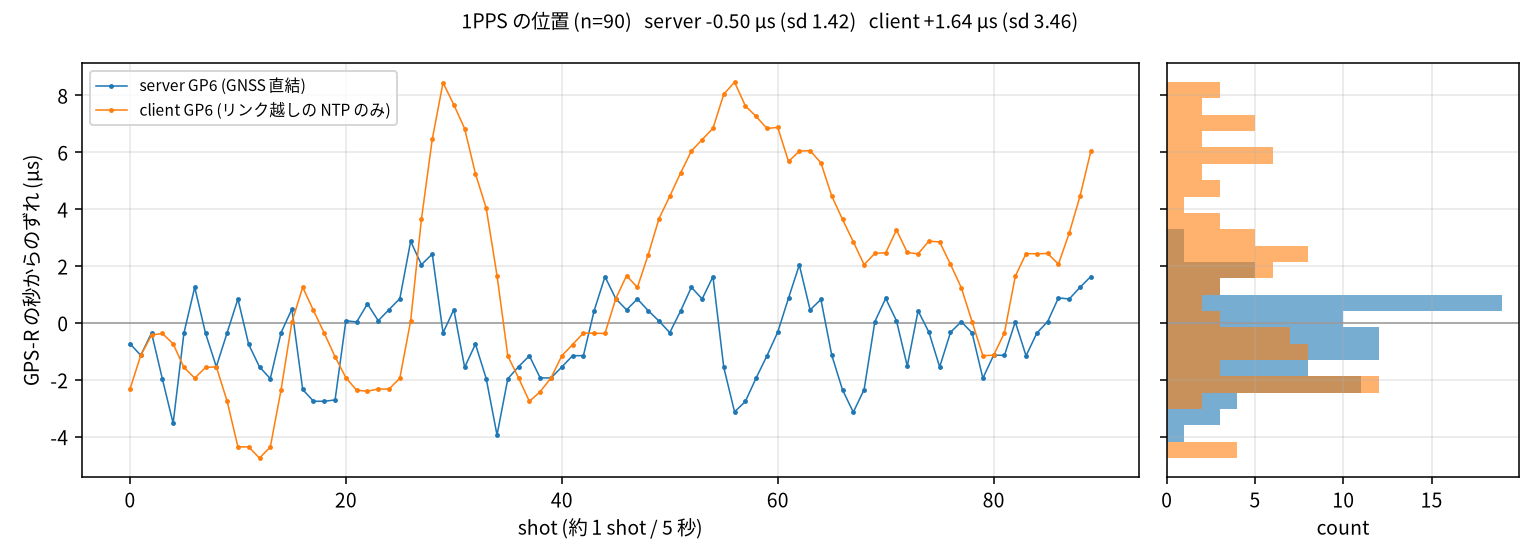
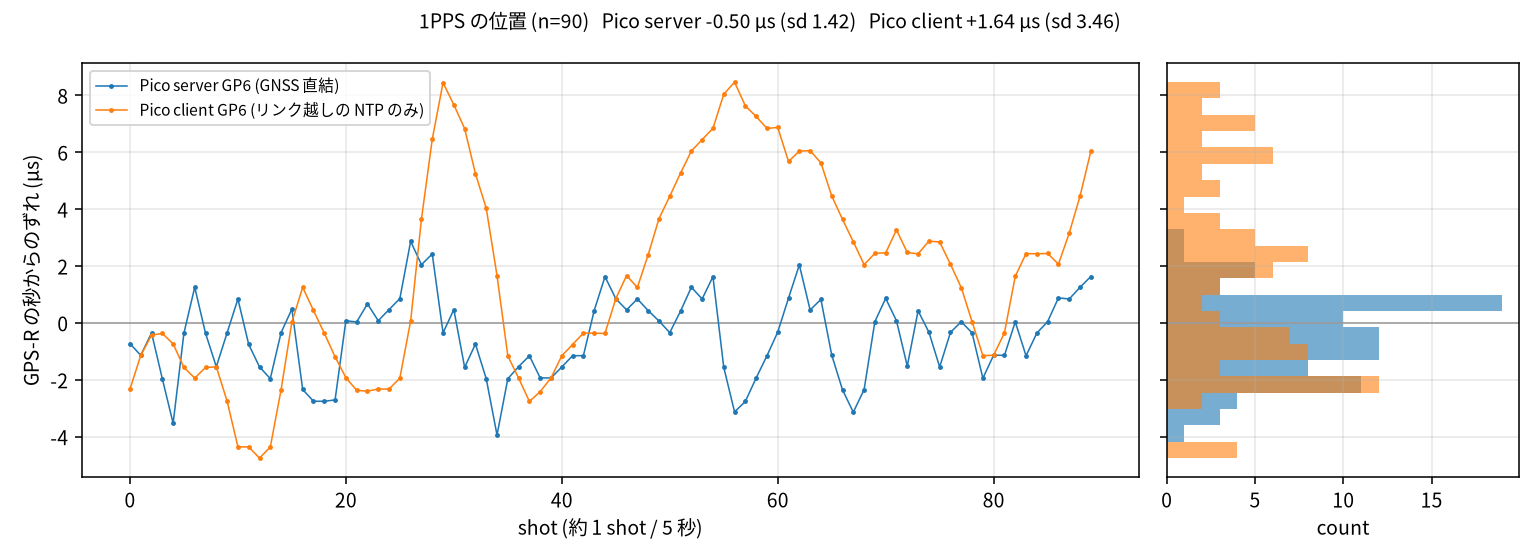
docs(pico-link-ntp): say what the synchronisation accuracy is, and why
The report gave the position of each board against the receiver's second and
left the accuracy at "the absolute position does not reproduce, and the cause
is not known". Both halves of that are now answerable.

What NTP achieves is the difference between the two boards, not either one's
distance from the receiver. Pico client GP6 minus Pico server GP6 comes out
of a single acquisition, and the constant the server subtracts from its own
clock moves that clock, so it lands equally on the pin and on the packets and
cancels in the difference. Over 12 runs and 226 acquisitions, with the
server's own position spanning -0.5 to +204.1 us, the difference stays within
+-10 us: per-run means -8.1 to +9.7 us, per-run sd 0.6 to 3.5 us.
fig-ntp-accuracy.png plots it both ways round, the second panel against the
server's absolute position to show the independence directly.

The server's absolute position moves because the clock's UTC anchor is not
the edge the counter captured. run_capture reads the software clock when it
drains the FIFO, so however late the executor wakes that task lands on the
served second. Delaying the drain by a known 100 us moved the output from
+80 us to +204.1 us (sd 1.4, n=16) and carried the client to +197.4 us with
it: the prediction first, then the measurement. It reproduces within a build
(five restarts: +79.7, +80.0, +80.3, +80.7, +82.3 us) and stops matching when
the firmware changes what runs at the second boundary.
[…]

diff --git a/docs/report/pico-link-ntp/logs/plot_link.py b/docs/report/pico-link-ntp/logs/plot_link.py
@@ -1,6 +1,6 @@
 #!/usr/bin/env python3
 # /// script
-# dependencies = ["matplotlib", "numpy"]
+# dependencies = ["matplotlib", "numpy", "pillow"]
 # ///
 """Figures for the Pico 間リンクの NTP 時刻同期。
 
@@ -17,7 +17,9 @@ import sys
 import matplotlib
 
 matplotlib.use("Agg")
+import matplotlib.animation as animation  # noqa: E402
 import matplotlib.pyplot as plt  # noqa: E402
+import matplotlib.transforms as transforms  # noqa: E402
 import numpy as np  # noqa: E402
 
 # 図中に日本語を出すので、CJK を持つフォントを明示する。無いと豆腐になる。
@@ -50,8 +52,8 @@ def fig_broadcast_series():
         1, 2, figsize=(11, 4), gridspec_kw={"width_ratios": [3, 1]}
     )
     ax.axhline(0, color="0.6", lw=0.8)
-    ax.plot(shots, server, ".-", ms=3, lw=0.8, label="server GP6 (GNSS 直結)")
-    ax.plot(shots, client, ".-", ms=3, lw=0.8, label="client GP6 (リンク越しの NTP のみ)")
+    ax.plot(shots, server, ".-", ms=3, lw=0.8, label="Pico server GP6 (GNSS 直結)")
+    ax.plot(shots, client, ".-", ms=3, lw=0.8, label="Pico client GP6 (リンク越しの NTP のみ)")
     ax.set_xlabel("shot (約 1 shot / 5 秒)")
     ax.set_ylabel("GPS-R の秒からのずれ (µs)")
     ax.legend(loc="upper left", fontsize=8)
@@ -69,12 +71,292 @@ def fig_broadcast_series():
 
     fig.suptitle(
         f"1PPS の位置 (n={len(server)})   "
-        f"server {server.mean():+.2f} µs (sd {server.std():.2f})   "
-        f"client {client.mean():+.2f} µs (sd {client.std():.2f})",
+        f"Pico server {server.mean():+.2f} µs (sd {server.std():.2f})   "
+        f"Pico client {client.mean():+.2f} µs (sd {client.std():.2f})",
         fontsize=10,
     )
     fig.tight_layout()
     path = os.path.join(OUT, "fig-broadcast-series.png")
+    fig.savefig(path, dpi=140)
+    print(f"saved {path}")
+
+
+# 1 回の取り込みで両方の 1PPS を読んだ run。server の絶対位置がばらついているのは狙って
+# そうしたのではなく、UTC の錨を PIO が捉えたエッジではなく FIFO を汲み出した時刻で取っていて、
+# 起動ごとに executor の起床順が変わるためである。ここではそれを逆に使う。
+RUNS = [
+    ("pair-series.csv", "broadcast"),
+    ("pair-unicast2.csv", "unicast"),
+    ("pair-pr10-retest.csv", "unicast"),
+    ("pair-hwts.csv", "unicast"),
+    ("pair-reviewfix.csv", "broadcast"),
+    ("pair-offload.csv", "unicast"),
+    ("pair-bisect.csv", "unicast"),
+    ("pair-boot1.csv", "unicast"),
+    ("pair-boot3.csv", "unicast"),
+    ("pair-boot4.csv", "unicast"),
+    ("pair-boot5.csv", "unicast"),
+    ("pair-anchor-delay.csv", "unicast (錨を 100 µs 遅らせた)"),
+]
+
+# 垂直の設定は `scope_pair.py` が固定している (1 V/div、offset −1.5 V)。バイト 0-255 が
+# 10 division にあたるので、真ん中のバイトが +1.5 V。
+VOLTS_PER_BYTE = 10.0 / 255.0
+CENTRE_VOLTS = 1.5
+
+
+def read_trace(name):
+    """`scope_pair.py trace` の CSV を frames[i][ch] = ボルトの配列 として読む。"""
+    frames, xinc = {}, None
+    with open(os.path.join(RAW, name)) as f:
+        for line in f:
+            if line.startswith("#"):
+                if "xinc_ns=" in line:
+                    xinc = float(line.split("xinc_ns=")[1].split()[0])
+                continue
+            head, _, rest = line.partition(",")
+            ch, _, samples = rest.partition(",")
+            try:
+                b = np.array([int(v) for v in samples.split(",")], dtype=float)
+            except ValueError:
+                continue  # 書き込み途中の最終行
+            if len(b) < 100:
+                continue
+            frames.setdefault(int(head), {})[int(ch)] = (
+                b - 127.5
+            ) * VOLTS_PER_BYTE + CENTRE_VOLTS
+    return {k: v for k, v in frames.items() if len(v) == 3}, xinc
+
+
+def _cross(w, falling):
+    """しきい値を跨ぐ最初の点を、サンプルの小数位置で返す。"""
+    lo, hi = w.min(), w.max()
+    if hi - lo < 1.0:
+        return None
+    th = (lo + hi) / 2
+    for i in range(1, len(w)):
+        if falling and w[i - 1] >= th > w[i]:
+            return (i - 1) + (w[i - 1] - th) / (w[i - 1] - w[i])
+        if not falling and w[i - 1] < th <= w[i]:
+            return (i - 1) + (th - w[i - 1]) / (w[i] - w[i - 1])
+    return None
+
+
+def _edges(frame, xinc):
+    """トリガ (CH1 の立ち下がり) を 0 とした、CH3 と CH4 の立ち上がりの位置 (µs)。"""
+    ref = _cross(frame[1], True)
+    if ref is None:
+        return None, None, None
+    out = []
+    for ch in (3, 4):
+        e = _cross(frame[ch], False)
+        out.append(None if e is None else (e - ref) * xinc / 1000.0)
+    return ref, out[0], out[1]
+
+
+# 並びも色もオシロの画面に合わせる。CH1 が上で、黄は白地で読めないので暗い金色にしてある。
+LANES = [
+    (1, 10.0, "#b8860b", "CH1  GNSS 受信機の 1PPS", "active low なので秒は立ち下がり"),
+    (3, 5.0, "C4", "CH3  Pico server GP6", "GPS で規律した秒"),
+    (4, 0.0, "C0", "CH4  Pico client GP6", "リンク越しの NTP だけで作った秒"),
+]
+
+
+def _draw_frame(ax, frame, xinc, ref, server_us, client_us):
+    n = len(frame[1])
+    t = (np.arange(n) - ref) * xinc / 1000.0
+    # ラベルは軸の左端に貼る。データ座標だと拡大したときに画面の外へ出る。
+    label_at = transforms.blended_transform_factory(ax.transAxes, ax.transData)
+    for ch, base, colour, name, sub in LANES:
+        ax.plot(t, frame[ch] + base, lw=1.2, color=colour)
+        ax.text(0.012, base + 4.3, name, fontsize=9, color=colour, va="top",
+                transform=label_at)
+        ax.text(0.012, base + 2.9, sub, fontsize=7.5, color="0.35", va="top",
+                transform=label_at)
+    ax.axvline(0, color="0.35", lw=1.0, ls="--")
+    ax.text(0, 14.6, "秒境界", fontsize=8.5, ha="center", color="0.25")
+
+    for value, base, colour in ((server_us, 5.0, "C4"), (client_us, 0.0, "C0")):
+        if value is None:
+            continue
+        ax.annotate(
+            "",
+            xy=(value, base + 1.6),
+            xytext=(0, base + 1.6),
+            arrowprops=dict(arrowstyle="<->", color=colour, lw=1.0),
+        )
+        ax.text(
+            value / 2,
+            base + 1.8,
+            f"{value:+.2f} µs",
+            fontsize=8.5,
+            color=colour,
+            ha="center",
+        )
+    ax.set_ylim(-1.2, 15.6)
+    ax.set_yticks([])
+    ax.set_xlabel("秒境界からの時間 (µs)")
+
+
+def fig_scope_annotated(trace="trace-5us.csv"):
+    """1 回の取り込みを、どの線が何なのかを書き入れて描き直したもの。"""
+    frames, xinc = read_trace(trace)
+    for i in sorted(frames):
+        ref, s, c = _edges(frames[i], xinc)
+        if ref is not None and s is not None and c is not None:
+            break
+    else:
+        print(f"{trace}: 3 本とも読める取り込みが無い", file=sys.stderr)
+        return
+    ss = np.array([v for v in (_edges(frames[k], xinc)[1] for k in frames) if v is not None])
+    cs = np.array([v for v in (_edges(frames[k], xinc)[2] for k in frames) if v is not None])
+    fig, ax = plt.subplots(figsize=(9.5, 5.4))
+    _draw_frame(ax, frames[i], xinc, ref, s, c)
+    lim = max(9.0, abs(s) * 1.6, abs(c) * 1.6)
+    ax.set_xlim(-lim, lim * 0.7)
+    # 1 枚だけ見て「これがオフセットだ」と読まれないよう、run 全体の分布も表題に入れる。
+    ax.set_title(
+        "1 回の取り込み。3 本は同じトリガで、CH1 の立ち下がりが秒境界\n"
+        f"この 1 枚は Pico server {s:+.2f} µs / Pico client {c:+.2f} µs、"
+        f"同じ run {len(ss)} 回では {ss.mean():+.2f} ± {ss.std():.2f} µs / "
+        f"{cs.mean():+.2f} ± {cs.std():.2f} µs",
+        fontsize=9.5,
+    )
+    fig.tight_layout()
+    path = os.path.join(OUT, "fig-scope-annotated.png")
+    fig.savefig(path, dpi=140)
+    print(f"saved {path}")
+    print(f"  この 1 枚: server {s:+.2f} µs, client {c:+.2f} µs")
+    print(
+        f"  この run (n={len(ss)}): server {ss.mean():+.2f} µs (sd {ss.std():.2f}), "
+        f"client {cs.mean():+.2f} µs (sd {cs.std():.2f})"
+    )
+
+
+def gif_scope(trace="trace-5us.csv"):
+    """同じ描き方で連続した取り込みを並べる。1 shot では見えない揺れが見える。"""
+    frames, xinc = read_trace(trace)
+    usable = []
+    for i in sorted(frames):
+        ref, s, c = _edges(frames[i], xinc)
+        if ref is not None:
+            usable.append((frames[i], ref, s, c))
+    if not usable:
+        print(f"{trace}: 使える取り込みが無い", file=sys.stderr)
+        return
+
+    # GIF は 1 コマが 1 枚の PNG になるので、静止画より小さく粗く作る。
+    fig, (ax, tx) = plt.subplots(
+        2, 1, figsize=(8.4, 6.0), dpi=80, gridspec_kw={"height_ratios": [3, 1.1]}
+    )
+    ss = [s for _, _, s, _ in usable]
+    cs = [c for _, _, _, c in usable]
+    seen = [v for v in ss + cs if v is not None]
+    lim = max(abs(v) for v in seen) * 1.3 if seen else 10.0
+
+    # コマごとに tight_layout を呼ぶと表題が切れたり枠が揺れたりするので、一度だけ決める。
+    fig.subplots_adjust(left=0.07, right=0.98, top=0.92, bottom=0.09, hspace=0.42)
+
+    def render(k):
+        ax.clear()
+        tx.clear()
+        frame, ref, s, c = usable[k]
+        _draw_frame(ax, frame, xinc, ref, s, c)
+        ax.set_xlim(-lim, lim * 0.7)
+        ax.set_title(f"取り込み {k + 1}/{len(usable)}", fontsize=10)
+        tx.axhline(0, color="0.6", lw=0.8)
+        tx.plot(range(k + 1), ss[: k + 1], ".-", ms=3, lw=0.8, color="C4",
+                label="Pico server")
+        tx.plot(range(k + 1), cs[: k + 1], ".-", ms=3, lw=0.8, color="C0",
+                label="Pico client")
+        tx.set_xlim(-1, len(usable))
+        tx.set_ylim(-lim, lim * 0.7)
+        tx.set_ylabel("秒境界からのずれ (µs)", fontsize=8)
+        tx.set_xlabel("取り込み", fontsize=8)
+        tx.tick_params(labelsize=7)
+        tx.legend(loc="upper right", fontsize=7, ncol=2)
+        tx.grid(alpha=0.3)
+
+    anim = animation.FuncAnimation(fig, render, frames=len(usable), interval=200)
+    path = os.path.join(OUT, "fig-scope.gif")
+    anim.save(path, writer=animation.PillowWriter(fps=5))
+    print(f"saved {path} ({len(usable)} frames, {os.path.getsize(path) / 1e6:.1f} MB)")
+
+
+def fig_ntp_accuracy():
+    """NTP が Pico server の秒をどれだけ忠実に Pico client へ渡せたか。
+
+    見るのは client GP6 − server GP6 で、1 回の取り込みから両方読んだ差である。受信機を基準に
+    した絶対位置と違い、server 側の較正定数は両方に等しく乗るのでこの差からは落ちる。
+    """
+    runs = []
+    for name, label in RUNS:
+        if not os.path.exists(os.path.join(RAW, name)):
+            continue
+        server, client = read_pairs(name)
+        if len(server) == 0:
+            continue
+        runs.append((label, server, client - server))
+    runs.sort(key=lambda r: r[1].mean())
+
+    fig, (ax, bx) = plt.subplots(
+        1, 2, figsize=(12, 5.0), gridspec_kw={"width_ratios": [1.1, 1]}
+    )
+    band = 10.0
+    rng = np.random.default_rng(0)
+    for i, (label, server, diff) in enumerate(runs):
+        ax.plot(
+            diff,
+            i + rng.uniform(-0.16, 0.16, len(diff)),
+            ".",
+            ms=3.5,
+            alpha=0.45,
+            color=f"C{i % 10}",
+        )
+        ax.errorbar(
+            diff.mean(),
+            i,
+            xerr=diff.std(),
+            fmt="o",
+            ms=5,
+            capsize=3,
+            color=f"C{i % 10}",
+            zorder=3,
+        )
+        bx.plot(server, diff, ".", ms=4, alpha=0.6, color=f"C{i % 10}")
+    ax.axvspan(-band, band, color="0.88", zorder=0)
+    ax.axvline(0, color="0.5", lw=0.8, zorder=1)
+    ax.set_yticks(range(len(runs)))
+    ax.set_yticklabels(
+        [f"{lab}\nPico server {srv.mean():+.1f} µs (n={len(d)})" for lab, srv, d in runs],
+        fontsize=7.5,
+    )
+    ax.set_xlabel("Pico client GP6 − Pico server GP6 (µs)")
+    ax.set_title("Pico client が Pico server の秒を再現した精度", fontsize=10)
+    ax.grid(axis="x", alpha=0.3)
+
+    bx.axhspan(-band, band, color="0.88", zorder=0)
+    bx.axhline(0, color="0.5", lw=0.8, zorder=1)
+    bx.set_xlabel("Pico server GP6 − 受信機の秒 (µs)")
+    bx.set_ylabel("Pico client GP6 − Pico server GP6 (µs)")
+    bx.set_title("Pico server が受信機からどれだけずれていても変わらない", fontsize=10)
+    bx.grid(alpha=0.3)
+
+    allo = np.concatenate([d for _, _, d in runs])
+    lo = min(s.mean() for _, s, _ in runs)
+    hi = max(s.mean() for _, s, _ in runs)
+    dlo = min(d.mean() for _, _, d in runs)
+    dhi = max(d.mean() for _, _, d in runs)
+    sd_lo = min(d.std() for _, _, d in runs)
+    sd_hi = max(d.std() for _, _, d in runs)
+    fig.suptitle(
+        f"取り込み {len(allo)} 回。Pico server の位置が {lo:+.1f} µs から {hi:+.1f} µs まで"
+        f"動いても、Pico client は Pico server に対して run ごとの平均 {dlo:+.1f}〜{dhi:+.1f} µs "
+        f"(run 内の sd {sd_lo:.1f}〜{sd_hi:.1f} µs)",
+        fontsize=10,
+    )
+    fig.tight_layout()
+    path = os.path.join(OUT, "fig-ntp-accuracy.png")
     fig.savefig(path, dpi=140)
     print(f"saved {path}")
 
@@ -84,6 +366,12 @@ def main():
         print(f"生データが見つからない: {RAW}", file=sys.stderr)
         raise SystemExit(1)
     fig_broadcast_series()
+    fig_ntp_accuracy()
+    if os.path.exists(os.path.join(RAW, "trace-5us.csv")):
+        fig_scope_annotated()
+        gif_scope()
+    else:
+        print("trace-5us.csv が無いので波形の図は飛ばす", file=sys.stderr)
 
 
 if __name__ == "__main__":
